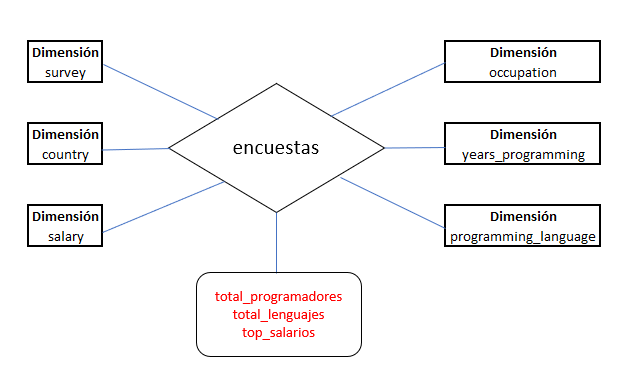
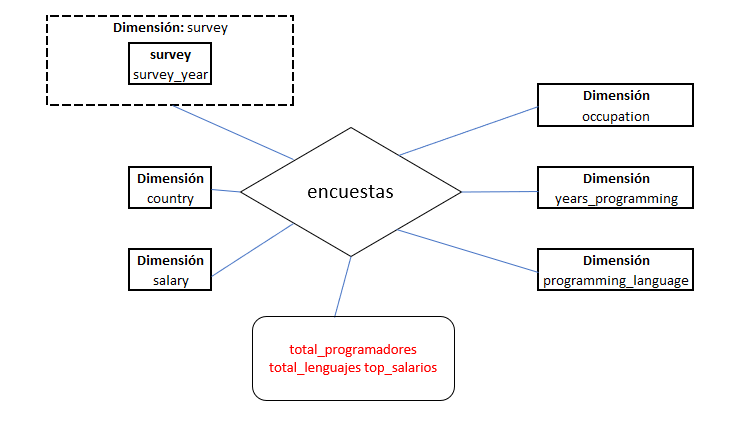
Avances y correcciones

diff --git a/trabajo-final-sbdm.md b/trabajo-final-sbdm.md
@@ -1,55 +1,51 @@
-# <center> Trabajo final Sistema de Bases de Datos Masivos </center>
+# <center> **Trabajo final Sistema de Bases de Datos Masivos** </center>
 
-## <center> Análisis de las encuestas de Stack Overflow entre los años 2011 a 2017 </center>
+## <center> **Análisis de las encuestas de Stack Overflow entre los años 2011 y 2017** </center>
 
 ---
 
 ### <center> Posgrado de Analítica, 2019-1 </center>
-
-###  <center> Integrantes </center>
+###  <center> Integrantes </center><br>
 <center> Jhon Anderson Londoño Herrera<br>
 Juan Pablo Trujillo Alviz 
-</center>
-
-<br>
+</center><br>
 
 <center> 22 de junio de 2019 </center>
 
 <br>
 
-## Índice
+## **Índice**
 
 ---
 
 1. [Motivación](#motivación)
 
-> 1.1[Licenciamiento](#licenciamiento)
+    1.1. [Licenciamiento](#licenciamiento)
 
 2. [Metodología](#metodología)
 
-
 3. [Desarrollo](#desarrollo)
 
-> 3.1 [Establecer conexión](#establecer-conexión)
+    3.1. [Establecer conexión](#establecer-conexión)
 
-> 3.2 [Limpieza de tablas](#limpieza-de-las-tablas)
+    3.2. [Limpieza de tablas](#limpieza-de-las-tablas)
 
-> 3.3 [SQL](#15-sql)
+    3.3. [SQL](#15-sql)
 
-> 3.4 [Representación visual de la bodega de datos](#representación-visual-de-la-bodega-de-datos)
+    3.4. [Representación visual de la bodega de datos](#representación-visual-de-la-bodega-de-datos)
 
 4. [URL's de interés](#urls-de-interes)
 
 <br>
 
-## Motivación
+## **Motivación**
 ---
 
 Este es el trabajo final del módulo Sistemas de Bases de Datos Masivos del posgrado de Analítica de la Universidad Nacional de Colombia, Sede Medellín. La guía del módulo puede ser consultado en esta [página web](https://sebastian-gomez.com/bigdata/) creada por el profesor MsC. Sebastián Gómez. El trabajo final, sus preguntas y lineamientos pueden ser consultados [aquí](https://drive.google.com/file/d/18uzP5uGg7OhbEDQIECtT8XtA4jr3NTf9/view).
 
-Analizar tendencias dentro del mundo de la tecnología se ha convertido en uno de los más grandes retos de la industria, prever cuál será el siguiente y más éxitoso lenguaje de programación o cuál sería el salario ideal para un desarrollador por tecnología se convertirá en una tarea crítica durante los próximos años. Stack Overflow es un sitio web ampliamente utilizado por la comunidad de desarrolladores de software, en la cual otros desarrolladores pueden encontrar soluciones a problemas de programación en diferentes lenguajes. Este sitio realiza desde el 2011 una encuesta a sus usuarios para observar y analizar tendencias en la industria de la tecnología y el software: https://insights.stackoverflow.com/survey/2019. La más reciente fue durante el mismo 2019. 
+>Analizar tendencias dentro del mundo de la tecnología se ha convertido en uno de los más grandes retos de la industria, prever cuál será el siguiente y más éxitoso lenguaje de programación o cuál sería el salario ideal para un desarrollador por tecnología se convertirá en una tarea crítica durante los próximos años. Stack Overflow es un sitio web ampliamente utilizado por la comunidad de desarrolladores de software, en la cual otros desarrolladores pueden encontrar soluciones a problemas de programación en diferentes lenguajes. Este sitio realiza desde el 2011 una encuesta a sus usuarios para observar y analizar tendencias en la industria de la tecnología y el software: https://insights.stackoverflow.com/survey/2019. La más reciente fue durante el mismo 2019. 
 
-Las encuestas han sido cuidadosamente almacenadas y expuestas en directorios de datos abiertos. Para este análisis se utilizarán 7 conjuntos de datos masivos completamente libres y accesibles a través de BigQuery que son las encuestas de los años **2011 a 2017**.
+>Las encuestas han sido cuidadosamente almacenadas y expuestas en directorios de datos abiertos. Para este análisis se utilizarán 7 conjuntos de datos masivos completamente libres y accesibles a través de BigQuery que son las encuestas de los años 2011 a 2017.
 
 Las encuestas pueden ser consultadas a través de *Google Cloud BigQuery* o están disponibles de manera gratuita en [este enlace](https://insights.stackoverflow.com/survey). (Importante revisar el licenciamiento de las bases de datos antes de trabajar con ellas)
 
@@ -68,18 +64,20 @@ La fuente primaria de las bases de datos consultadas es Stack Overflow y contien
 
 <br>
 
-## Metodología
+## **Metodología**
 ---
+
+Para el desarrollo de este trabajo se propone utilizar el lenguaje de programación libre *Python* en su versión 3.7 de *IPython* y el editor de cuadernos de código, igualmente libre, de *Jupyter* a través de *Google Colab*. En caso de que se vaya a utilizar directamente el código de manera remota, se propone utilizar *Jupyter* a través de la instalación del software libre [*Anaconda Navigator*](https://www.anaconda.com/distribution/) ya que viene predeterminado con los paquetes de *Python* más comunes para realizar ciencia de datos con los binarios apropiados para la máquina donde se instale. 
+
 
 **Instalar paquetes necesarios**
 
-
-Se propone utilizar una conexión directa a *Google BigQuery* a través de una API privada, generando las credenciales de acceso. Para ello se utiliza el paquete de python *google-cloud-bigquery* el cual se puede instalar ejecutando el comando en la terminal:
+Se propone utilizar una conexión directa a *Google BigQuery* a través de una API privada, generando las credenciales de acceso. Para ello se utiliza el paquete de *Python google-cloud-bigquery*, el cual se puede instalar ejecutando el comando en la terminal del equipo:
 
 ```terminal
 pip install google-cloud.bigquery
 ```
-En caso de que se tenga instalado *Anaconda Navigator*, se recomienda instalar el paquete con el siguiente comando dentro de la terminal de Anaconda:
+En caso de que se tenga instalado *Anaconda Navigator*, se recomienda instalar el paquete a través de la sección de ambientes virtuales dentro del navegador o con el  comando dentro de la terminal de *Anaconda Prompt*:
 
 ```terminal
 conda install -c conda-forge google-cloud-bigquery
@@ -87,7 +85,7 @@ conda install -c conda-forge google-cloud-bigquery
 
 **Establecer conexión desde equipo local**
 
-Una vez se instale el paquete necesario, se puede realizar la conexión ejecutando los siguientes códigos en python:
+Una vez se instale el paquete necesario, se puede realizar la conexión ejecutando los siguientes códigos en *Python*:
 
 ```terminal
 from google.cloud import bigquery
@@ -121,7 +119,7 @@ drive.mount('/content/gdrive') # ingrese la contraseña generada
 cd gdrive/'My drive'/
 
 # cargar el archivo de credenciales desde Drive
-credenciales = service_account.Credentials.from_service_account_file('filename.json')
+credenciales = service_account.Credentials.from_service_account_file('path/filename.json')
 ```
 
 **Ejecutar queries**
@@ -161,10 +159,10 @@ tabla.head()
 
 <br>
 
-## Desarrollo
+## **Desarrollo**
 ---
 
-### Estado actual de las tablas de las encuestas
+### **Estado actual de las tablas de las encuestas**
 
 Se realiza la consulta a través de *Google BigQuery* utilizando una cuenta educativa para acceder a la información de las encuestas de Stack Overflow de los años 2011 a 2017.
 
@@ -175,15 +173,44 @@ Las encuestas de los años 2016 y 2017 manejan un esquema similar a los años, s
 Finalmente, las preguntas y respuestas varían año a año, tanto en la estructura gramatical de cada una como en el número. Los conjuntos de datos cuentan entre 50 campos (el más corto) hasta más de 200 campos.
 
 
-### Identificación de campos en común
+### **Identificación de campos en común**
 
 Los esquemas de las encuestas son variantes a lo largo de los años, por lo que se requiere una verificación, en su mayor parte manual, de las preguntas y respuestas comunes entre los años a analizar. 
 
+Por esta razón, se eligen las siguientes variables comunes:
+
++ País
++ Años de experiencia programando
++ Ocupación
++ Salario
++ Lenguajes de programación
+
+**Unificación y limpieza de las tablas**
+
+Cada encuesta presentaba diferentes tipos de datos para cada una de las variables, por lo que se realizó un proceso de limpieza y homologación de datos utilizando unas funciones de los paquetes de *re*, *numpy*, *itertools* y *pandas*, además de crear unas funciones propias para automatizar el proceso. 
+
+Estas pueden ser consultadas en el cuaderno de *Jupyter*, accesible **[aquí PENDIENTE](https://google.com)**, en la subsección de *Limpieza de las tablas*.
+
+Después de la limpieza de cada una de las encuestas, el resultado es la bodega de datos ***encuestas*** que cuenta con una única tabla con el siguiente esquema:
+
+| Nombre | Tipo  | Descripción |
+| --- | --- | --- |
+|survey| integer | Año de realización de la encuesta|
+| country | string | País que indica la persona que responde la encuesta|
+| years_programming |string | Rango de años programando: Rather not say, less than 2 years, 2 - 5 years, 6 - 10 years, 11 or more years|
+| occupation| string | Puesto o área de trabajo|
+| salary | string | Rango salarial en USD: 0, Less than 20K, 20K - 40K, (rangos de 20K en 20K), 120K - 140K, More than 140K|
+| programming_language| string | Lenguajes de programación o programas que la persona dice saber manejar, separados por punto y coma (";")|
 
 
-### 15 SQL
 
-### Representación visual de la bodega de datos
+### **15 SQL**
+
+~~En esta sección van las preguntas, las imágenes de las respuestas y un corto enunciado. Todavía no está terminado~~
+
+### **Representación visual de la bodega de datos**
+
+A continuación se representa de forma gráfica la estructura de la bodega de datos a través de tres modelos: Cubo, Estrella y Malinowski.
 
 ***Modelo del cubo***
 
@@ -195,7 +222,7 @@ Para este modelo se toman tres dimensiones de la bodega de datos:
 
 Como existen muchas categorías por dimensión, se toman los años 2011, 2012 y 2017, los países Colombia, México y Ecuador y los rangos salariales 0, 120K - 140K, More than 140K.
 
-*<center> Modelo del cubo </center>*
+*<center> Imagen del modelo del cubo </center>*
 
 ![Imagen del cubo](imagenes/modelo-cubo.PNG)
 
@@ -203,7 +230,7 @@ Como existen muchas categorías por dimensión, se toman los años 2011, 2012 y 
 
 Para este modelo se identifican todas las dimensiones (o columnas para como se constituyó la bodega de datos) y el hecho que en este caso son las mismas encuestas.
 
-*<center> Modelo de estrella </center>*
+*<center> Imagen del modelo de estrella </center>*
 
 ![Imagen de estrella](imagenes/Estrella.PNG)
 
@@ -211,6 +238,6 @@ Para este modelo se identifican todas las dimensiones (o columnas para como se c
 
 El modelo de Malinowski es similar al modelo estrella, cambiando la notación del hecho, las medidas del hecho y las dimensiones. Estas últimas se pueden desagregar a nivel de atributos, pero para este ejercicio no es posible debido a la forma como está constituida la bodega de datos.
 
-*<center> Modelo de Malinowski </center>*
+*<center> Imagen del modelo de Malinowski </center>*
 
 ![Imagen de Malinowski](imagenes/Malinowski.PNG)
